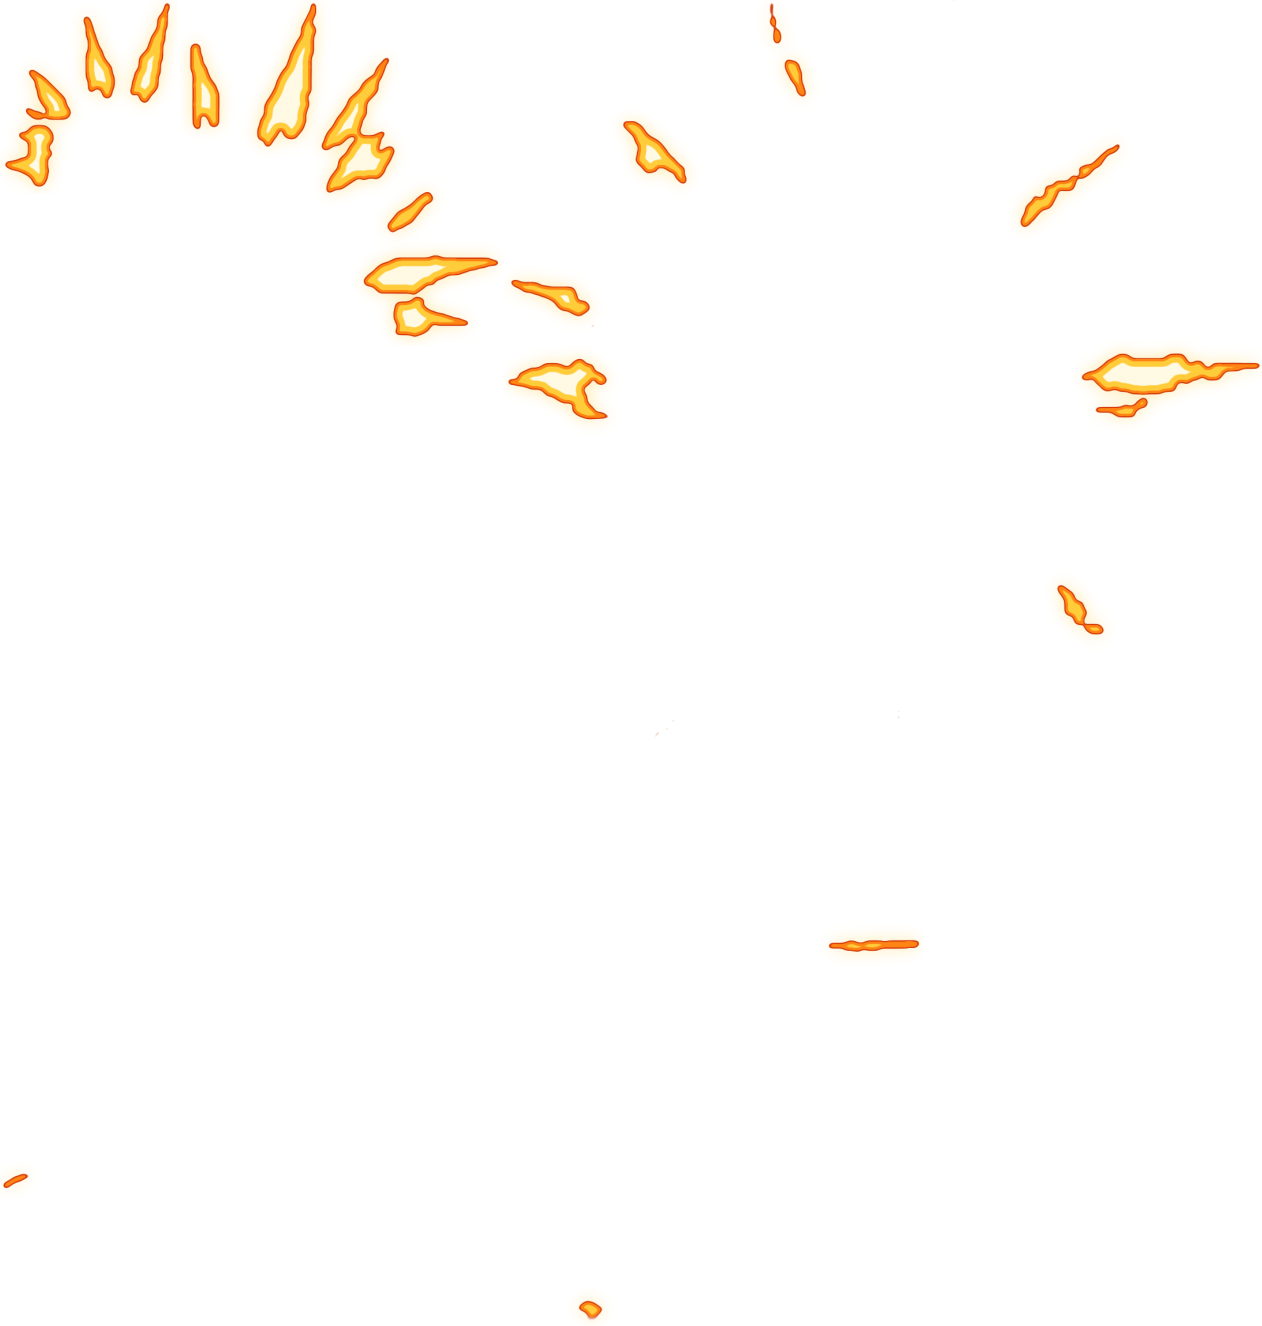
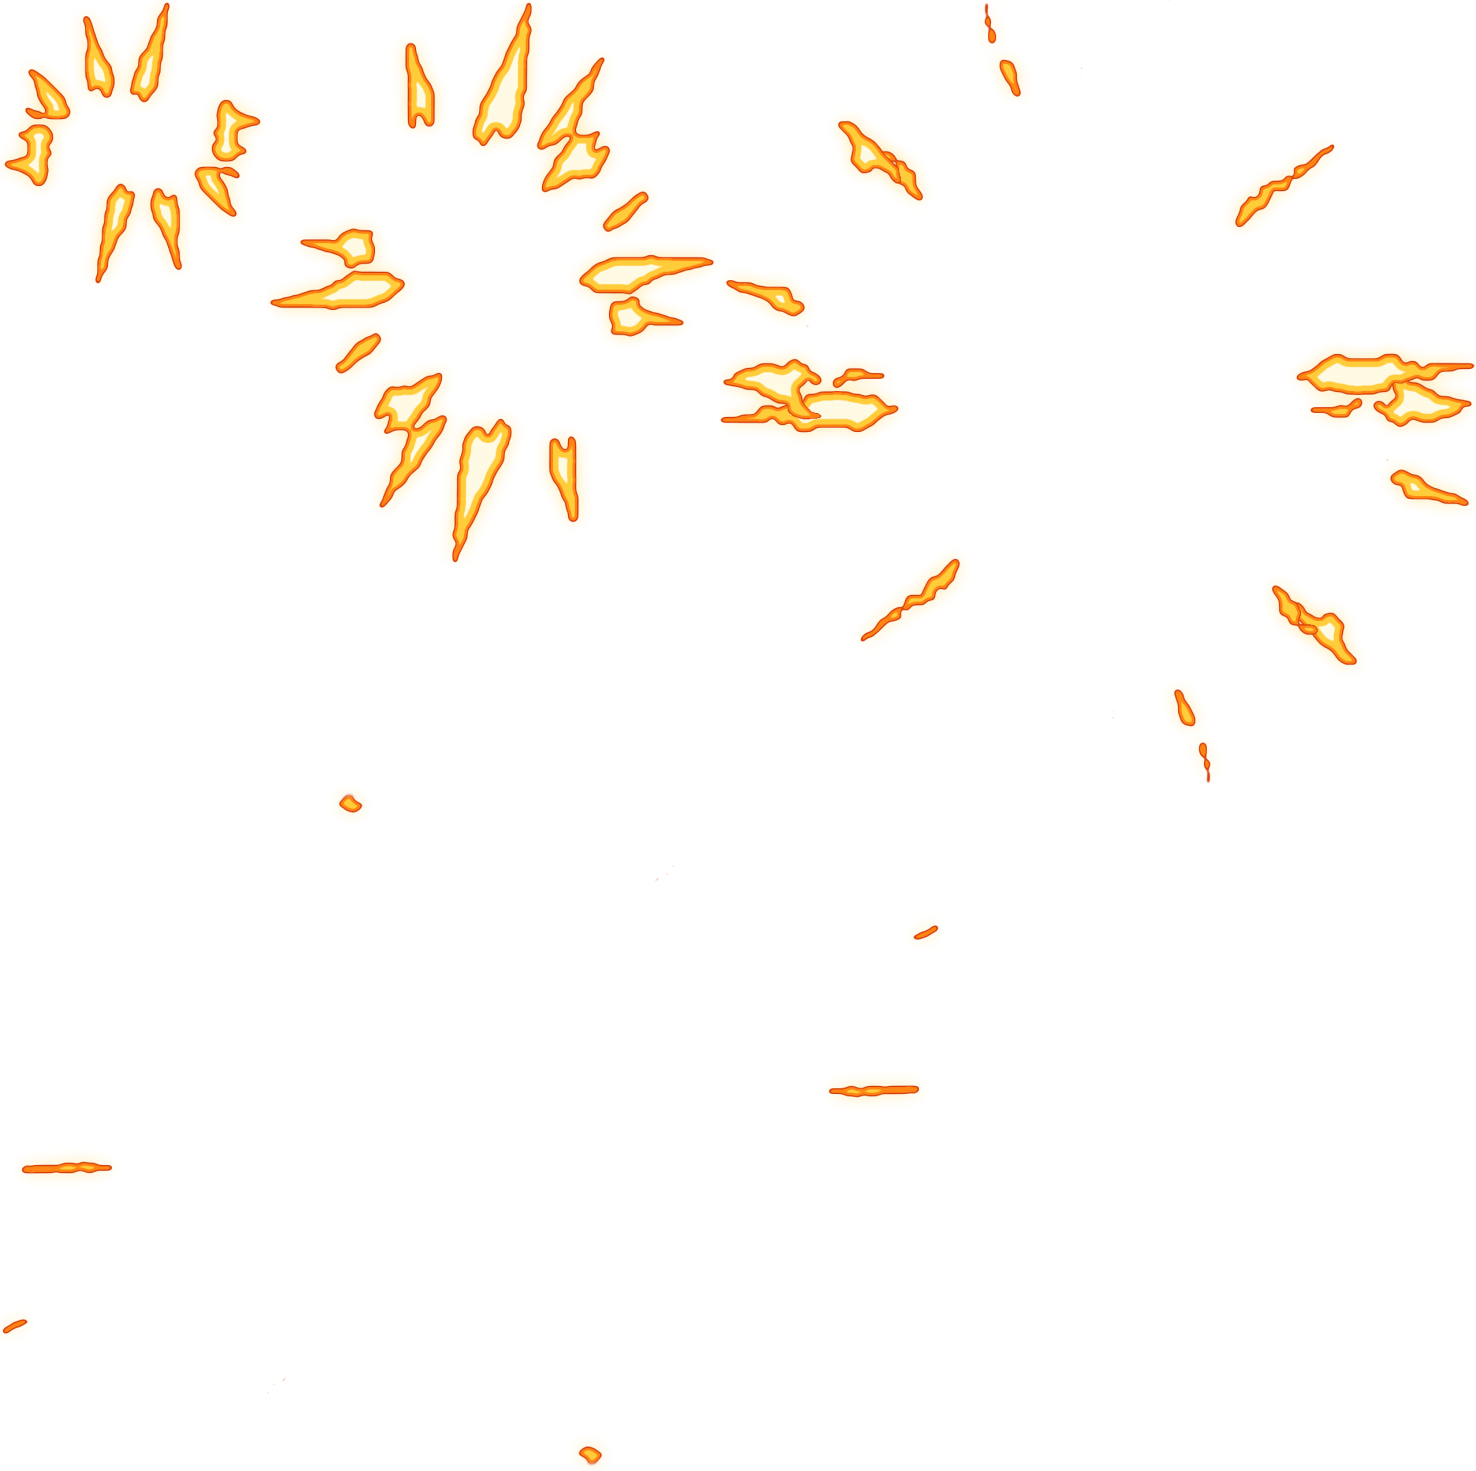
Dano forte e especial no ponto do golpe
- impacto_forte: a origem estava ~100 px de vídeo acima do centro do estouro
  (o efeito aparecia para baixo e de lado em relação ao contato). Agora a origem
  é o ponto de onde saem os raios, e o anel fecha (cada quadro somado com ele
  girado 180° no centro: os raios por cima do corpo não saíam do vídeo).
- impacto_especial: origem no miolo do clarão (estava ~20 px de vídeo ao lado).

Claude-Session: https://claude.ai/code/session_01ADAcGMVMLYeJevUGAnZ6Q8

diff --git a/docs/efeitos-de-video.md b/docs/efeitos-de-video.md
@@ -100,9 +100,9 @@ sempre: na tela do celular a folha encolhe em vez de esticar, e o contorno fica 
 
 | Folha | Vídeo | Quadros | No jogo |
 |---|---|---|---|
-| `impacto_forte` | Personagem_Recebendo_Dano_Agachado (o estouro na cabeça, 8-11; `--brilho --chao-tenis 690 --sem-corpo --dourado`; origem 1514,572 dobrada, altura 294) | 4 | golpe forte que acerta |
+| `impacto_forte` | Personagem_Recebendo_Dano_Agachado (o estouro na cabeça, 8-11; `--brilho --chao-tenis 690 --sem-corpo --dourado`; os raios por cima do corpo não saem do vídeo, então cada quadro é somado com ele mesmo girado 180° em volta do centro 1396,766 e o anel fecha; origem 1396,766 dobrada: o centro de onde saem os raios, `--escala-mundo 0.231`) | 4 | golpe forte que acerta |
 | `impacto_fraco` | Red-Haired_Clown_Fighter_Guard_Stance (a faísca branca no punho, 27-31; `--placa 33-40 --raio 1058,311,360 --excluir 0,0,0,980,768 --dourado`; origem 2116,622 dobrada, altura 181) | 5 | golpe fraco; o médio usa ele 25% maior |
-| `impacto_especial` | Bonnie_Tomando_Dano (só o impacto e as faíscas, 8-12, sem o jato que vem antes; `--cores --brilho --sem-corpo --espelhar --raio 693,394,300 --dourado`; origem 1300,788 dobrada, altura 244) | 5 | especial, Super e KO |
+| `impacto_especial` | Bonnie_Tomando_Dano (só o impacto e as faíscas, 8-12, sem o jato que vem antes; `--cores --brilho --sem-corpo --espelhar --raio 693,394,300 --dourado`; origem 1262,768 dobrada: o miolo do clarão, altura 244) | 5 | especial, Super e KO |
 | `impacto_chao` | Personagem_Cai_e_Levanta_Rápido (o vento/poeira do corpo no chão, 37-44; origem 420,700) | 8 | knockdown |
 
 Defesas com `--placa` (quadros parados do personagem sem efeito): o efeito é o que clareou em
